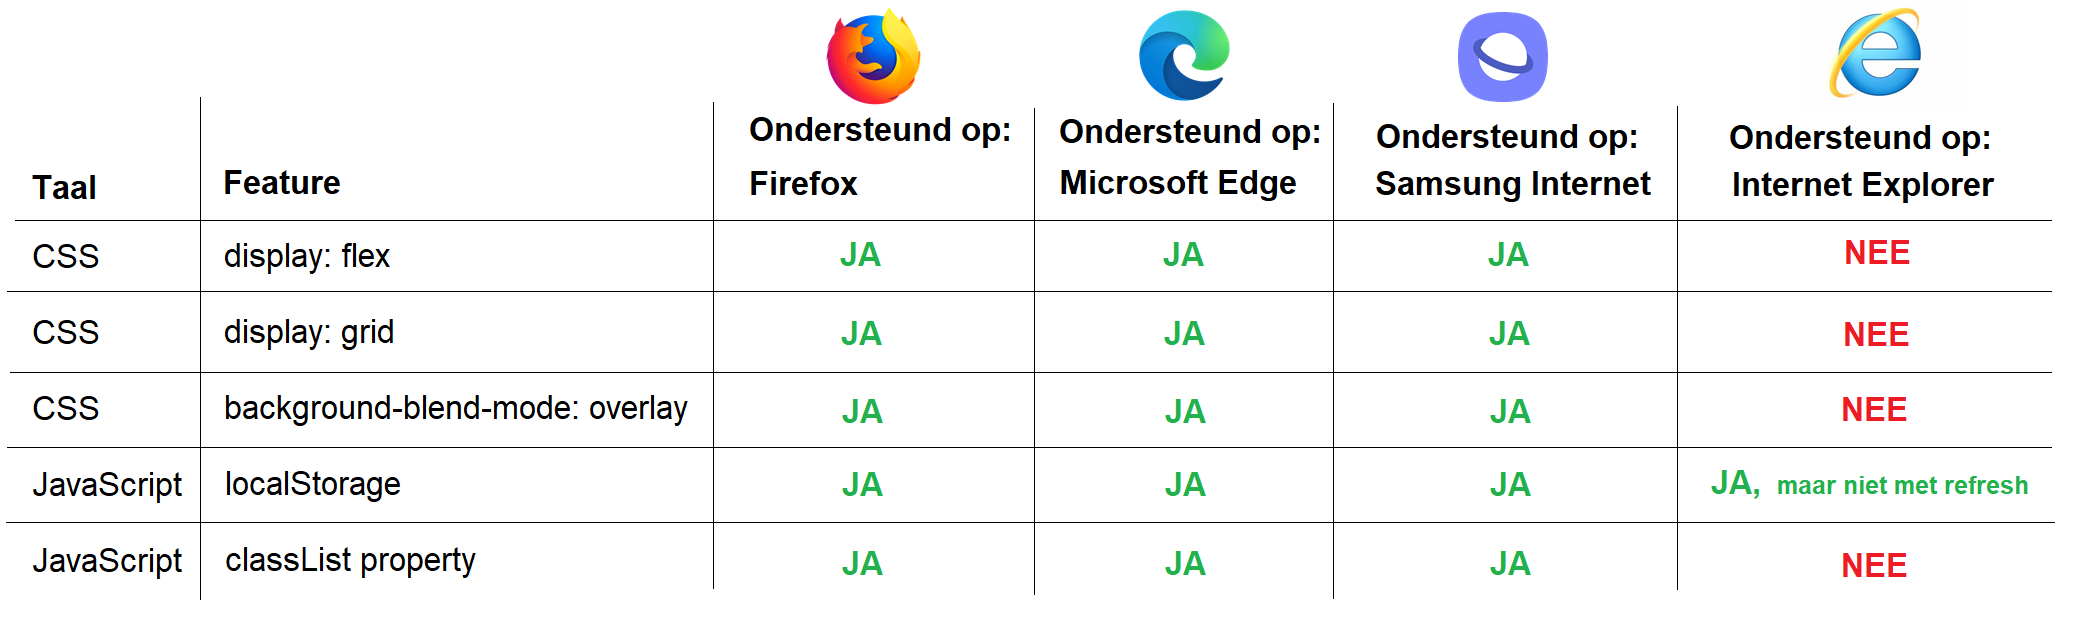
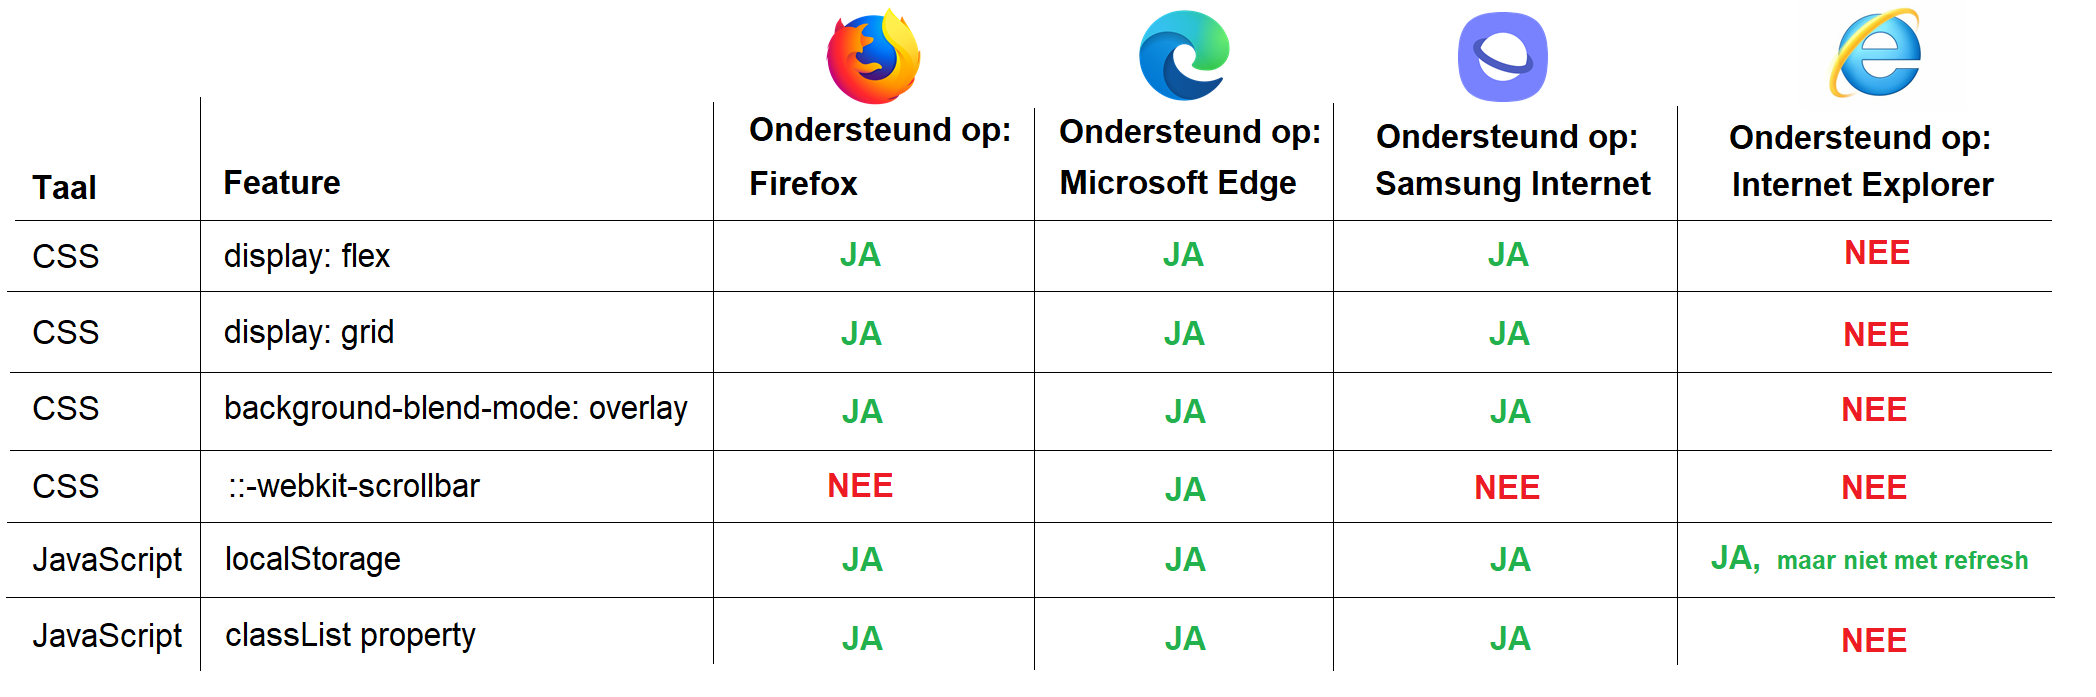
scrollbar_feature added

diff --git a/public/css/style.css b/public/css/style.css
@@ -5,7 +5,7 @@
     box-sizing: content-box;
 }
 
-::-webkit-scrollbar { /* Not supported at Internet Explorer but the default fallback is oke */
+::-webkit-scrollbar { /* The default fallback for browsers that does not support this feature is oke */
     width: 15px;
     background-color: white;
 }
@@ -24,15 +24,15 @@ body {
     width: 100vw;
     height: 100vh;
     overflow-x: hidden;
-    background: url('../images/hva_achtergrond_darker.jpg') no-repeat center center fixed, /* If background-blend-mode: overlay is not supported */
+    background: url('../images/hva_achtergrond_darker.jpg') repeat center center fixed, /* If background-blend-mode: overlay is not supported */
                 #777;
 }
 
 @supports (background-blend-mode: overlay) { /* Not supported at Internet Explorer */
     body {
-        background: url('../images/hva_achtergrond.avif') no-repeat center center fixed,
-                    url('../images/hva_achtergrond.webp') no-repeat center center fixed,
-                    url('../images/hva_achtergrond.jpg') no-repeat center center fixed, 
+        background: url('../images/hva_achtergrond.avif') repeat center center fixed,
+                    url('../images/hva_achtergrond.webp') repeat center center fixed,
+                    url('../images/hva_achtergrond.jpg') repeat center center fixed, 
                     #777;
         background-blend-mode: overlay;
         background-color: rgba(0,0,0,0.85);

diff --git a/README.md b/README.md
@@ -32,6 +32,7 @@ In mijn onderzoek naar browser support heb ik naar drie verschillende CSS-featur
 - CSS - display: flex
 - CSS - display: grid
 - CSS - background-blend-mode: overlay
+- CSS - ::-webkit-scrollbar
 
 Ook heb ik onderzoek gedaan naar twee verschillende JavaScript-features:
 - JavaScript - localStorage
